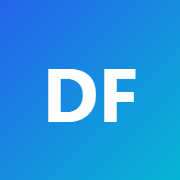
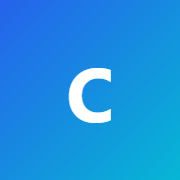
Renomeia o site para Cero e reorienta a página inicial
A página inicial passa a apresentar os temas do site (desenvolvimento de
software, engenharia de dados e analytics, ciência da computação e estudos);
a parte pessoal fica em Sobre e Currículo, com um bloco "Sobre o autor".
Atualiza logo, favicon, título, manifest, rodapé e imagens de compartilhamento.

Changed region(s): [[0.25, 0.3611, 0.7778, 0.6944]]

diff --git a/src/data/site.ts b/src/data/site.ts
@@ -1,14 +1,26 @@
 /**
  * Configuração do site: navegação, perfis externos e metadados.
- * Dados pessoais ficam em src/data/profile.json.
+ * Dados pessoais (autor) ficam em src/data/profile.json.
  */
 import profile from './profile.json';
 import type { UIKey } from '../i18n/ui';
 
 export const SITE = {
-  title: profile.name,
+  title: 'Cero',
+  /** Letra exibida no logotipo. */
+  initials: 'C',
+  /** Frase curta que acompanha o nome. */
+  tagline: 'Software, dados, computação e estudos',
   /** Descrição padrão usada quando a página não define uma. */
-  description: profile.summary.pt,
+  description:
+    'Cero reúne assuntos e informações sobre desenvolvimento de software, engenharia de dados e analytics, ciência da computação e estudos.',
+  /** Temas do site, exibidos na página inicial. */
+  topics: [
+    { icon: 'code', title: 'Desenvolvimento de software', text: 'Arquitetura, boas práticas, APIs, integrações e ferramentas para construir sistemas.' },
+    { icon: 'database', title: 'Engenharia de dados e analytics', text: 'Pipelines, modelagem, governança, BI e análise de dados para apoiar decisões.' },
+    { icon: 'cpu', title: 'Ciência da computação', text: 'Algoritmos, estruturas de dados, inteligência artificial e fundamentos da computação.' },
+    { icon: 'book', title: 'Estudos', text: 'Anotações, resumos, trilhas de aprendizado e materiais de referência.' },
+  ],
   locale: 'pt_BR',
   /** Imagem padrão para compartilhamento (1200×630), em public/. */
   ogImage: '/og-default.png',

diff --git a/src/pages/site.webmanifest.ts b/src/pages/site.webmanifest.ts
@@ -1,10 +1,10 @@
-import { SITE, profile } from '../data/site';
+import { SITE } from '../data/site';
 import { withBase } from '../lib/url';
 
 export function GET() {
   const manifest = {
-    name: `${profile.name} — ${profile.headline.pt}`,
-    short_name: profile.name,
+    name: `${SITE.title} — ${SITE.tagline}`,
+    short_name: SITE.title,
     description: SITE.description,
     lang: 'pt-BR',
     start_url: withBase('/'),
